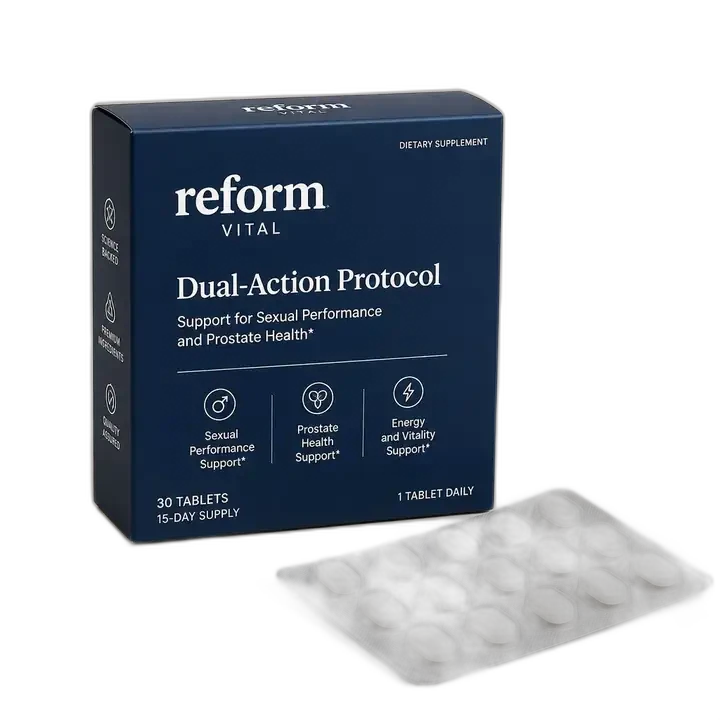
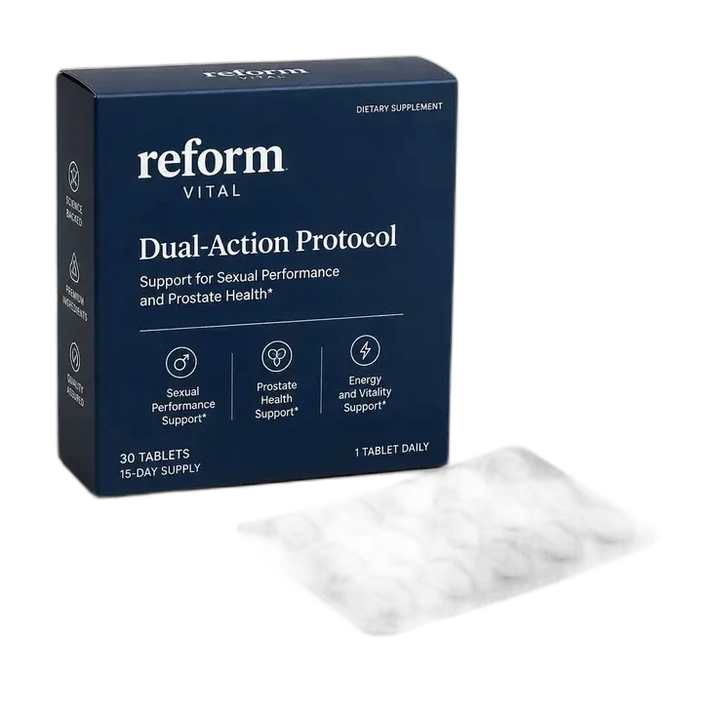
Stop cutting product bottles in treatment frames.
Pad transparent pack/vial assets and switch contain+center with safe inset so caps and labels stay fully visible.

Changed region(s): [[0.0611, 0.0611, 1.0, 0.9778]]

diff --git a/src/app/globals.css b/src/app/globals.css
@@ -4819,7 +4819,7 @@ h1, h2, h3, h4, h5, h6 {
 }
 
 .rv-dual-img--fade:hover .rv-dual-img__primary {
-  transform: scale(1.02);
+  transform: none;
 }
 
 @media (hover: none) {
@@ -5112,35 +5112,41 @@ h1, h2, h3, h4, h5, h6 {
 .rv-tx-media__art {
   position: relative;
   margin-top: 1rem;
-  min-height: 320px;
-  width: calc(100% + 2.7rem);
-  margin-left: -1.35rem;
-  margin-right: -1.35rem;
-  margin-bottom: -0.35rem;
+  min-height: 340px;
+  width: 100%;
+  margin-left: 0;
+  margin-right: 0;
+  margin-bottom: 0;
   display: block;
   overflow: hidden;
   background: var(--rv-pack-stage);
+  border-radius: 0 0 18px 18px;
+  /* Keep bottle fully inside the frame (away from badge + card radius) */
+  padding: 0.85rem 1rem 3.25rem;
+  box-sizing: border-box;
 }
 
 .rv-tx-media__art .rv-dual-img {
   position: absolute !important;
-  inset: 0 !important;
-  width: 100% !important;
-  height: 100% !important;
+  inset: 0.85rem 1rem 3.25rem 1rem !important;
+  width: auto !important;
+  height: auto !important;
   margin: 0 !important;
   border-radius: 0 !important;
   box-shadow: none !important;
-  background: var(--rv-pack-stage) !important;
+  background: transparent !important;
+  overflow: visible !important;
 }
 
 .rv-tx-media__art .rv-dual-img__primary,
 .rv-tx-media__art .rv-dual-img__secondary {
   object-fit: contain !important;
-  object-position: center bottom !important;
+  object-position: center center !important;
   filter: none !important;
   border-radius: 0 !important;
   box-shadow: none !important;
   transform: none !important;
+  padding: 0 !important;
 }
 
 .rv-tx-media:hover .rv-dual-img--fade .rv-dual-img__secondary {
@@ -5256,8 +5262,10 @@ h1, h2, h3, h4, h5, h6 {
   width: 100%;
   height: 100%;
   object-fit: contain;
-  padding: 0;
-  background: var(--rv-pack-stage);
+  object-position: center center;
+  padding: 10%;
+  box-sizing: border-box;
+  background: transparent;
   border-radius: 0;
   filter: none;
   box-shadow: none;
@@ -5539,12 +5547,22 @@ h1, h2, h3, h4, h5, h6 {
 
 .rv-yx-pack-tile .rv-dual-img {
   position: relative;
-  height: 120px;
+  height: 140px;
+  overflow: hidden;
+}
+
+.rv-yx-pack-tile .rv-dual-img__primary,
+.rv-yx-pack-tile .rv-dual-img__secondary {
+  object-fit: contain !important;
+  object-position: center center !important;
+  padding: 8% !important;
+  box-sizing: border-box;
+  transform: none !important;
 }
 
 @media (min-width: 640px) {
   .rv-yx-pack-tile .rv-dual-img {
-    height: 140px;
+    height: 160px;
   }
 }
 
@@ -5594,15 +5612,29 @@ h1, h2, h3, h4, h5, h6 {
   background: var(--rv-pack-stage);
 }
 
-.rv-yx__img--contain {
+.rv-yx-tx-card__media--pack .rv-dual-img__primary,
+.rv-yx-tx-card__media--pack .rv-dual-img__secondary,
+.rv-yx-tx-card__media--vial img,
+.rv-yx-detail-pack .rv-dual-img__primary,
+.rv-yx-detail-pack .rv-dual-img__secondary {
   object-fit: contain !important;
   object-position: center center !important;
-  padding: 8%;
+  padding: 10% !important;
+  box-sizing: border-box;
   transform: none !important;
 }
 
-.rv-yx__card:hover .rv-yx__img--contain {
-  transform: scale(1.03) !important;
+.rv-yx__img--contain {
+  object-fit: contain !important;
+  object-position: center center !important;
+  padding: 10% !important;
+  box-sizing: border-box;
+  transform: none !important;
+}
+
+.rv-yx__card:hover .rv-yx__img--contain,
+.rv-yx-tx-card__media--vial:hover img {
+  transform: none !important;
 }
 
 .rv-yx__media-scrim--soft {
@@ -5627,7 +5659,7 @@ h1, h2, h3, h4, h5, h6 {
 }
 
 .rv-yx-tx-card__media--vial:hover img {
-  transform: scale(1.04);
+  transform: none !important;
 }
 
 @media (min-width: 900px) {
@@ -6671,9 +6703,10 @@ h1, h2, h3, h4, h5, h6 {
 .rv-yx-protocol__vials .rv-dual-img__secondary {
   object-fit: contain !important;
   object-position: center center !important;
-  padding: 6%;
+  padding: 10% !important;
   box-sizing: border-box;
-  background: var(--rv-pack-stage);
+  background: transparent;
+  transform: none !important;
 }
 
 /* Uniform pack studio stage — bottles blend with container (no inner box) */
@@ -6793,12 +6826,20 @@ h1, h2, h3, h4, h5, h6 {
   }
 
   .rv-tx-media__art {
-    min-height: 280px;
-    width: calc(100% + 2.2rem);
-    margin-left: -1.1rem;
-    margin-right: -1.1rem;
+    min-height: 300px;
+    width: 100%;
+    margin-left: 0;
+    margin-right: 0;
     margin-top: 0.75rem;
-    margin-bottom: -0.25rem;
+    margin-bottom: 0;
+    padding: 0.65rem 0.75rem 3rem;
+    border-radius: 0 0 14px 14px;
+  }
+
+  .rv-tx-media__art .rv-dual-img {
+    inset: 0.65rem 0.75rem 3rem 0.75rem !important;
+    width: auto !important;
+    height: auto !important;
   }
 
   .rv-tx-media__top {
@@ -6814,20 +6855,6 @@ h1, h2, h3, h4, h5, h6 {
     font-size: clamp(1.55rem, 6.5vw, 1.95rem);
     max-width: 14ch;
     margin-top: 0.75rem;
-  }
-
-  .rv-tx-media__art {
-    min-height: 280px;
-    width: calc(100% + 2.2rem);
-    margin-left: -1.1rem;
-    margin-right: -1.1rem;
-    margin-top: 0.75rem;
-    margin-bottom: -0.25rem;
-  }
-
-  .rv-tx-media__art .rv-dual-img {
-    width: 100% !important;
-    height: 100% !important;
   }
 
   .rv-tx-media__badge {
